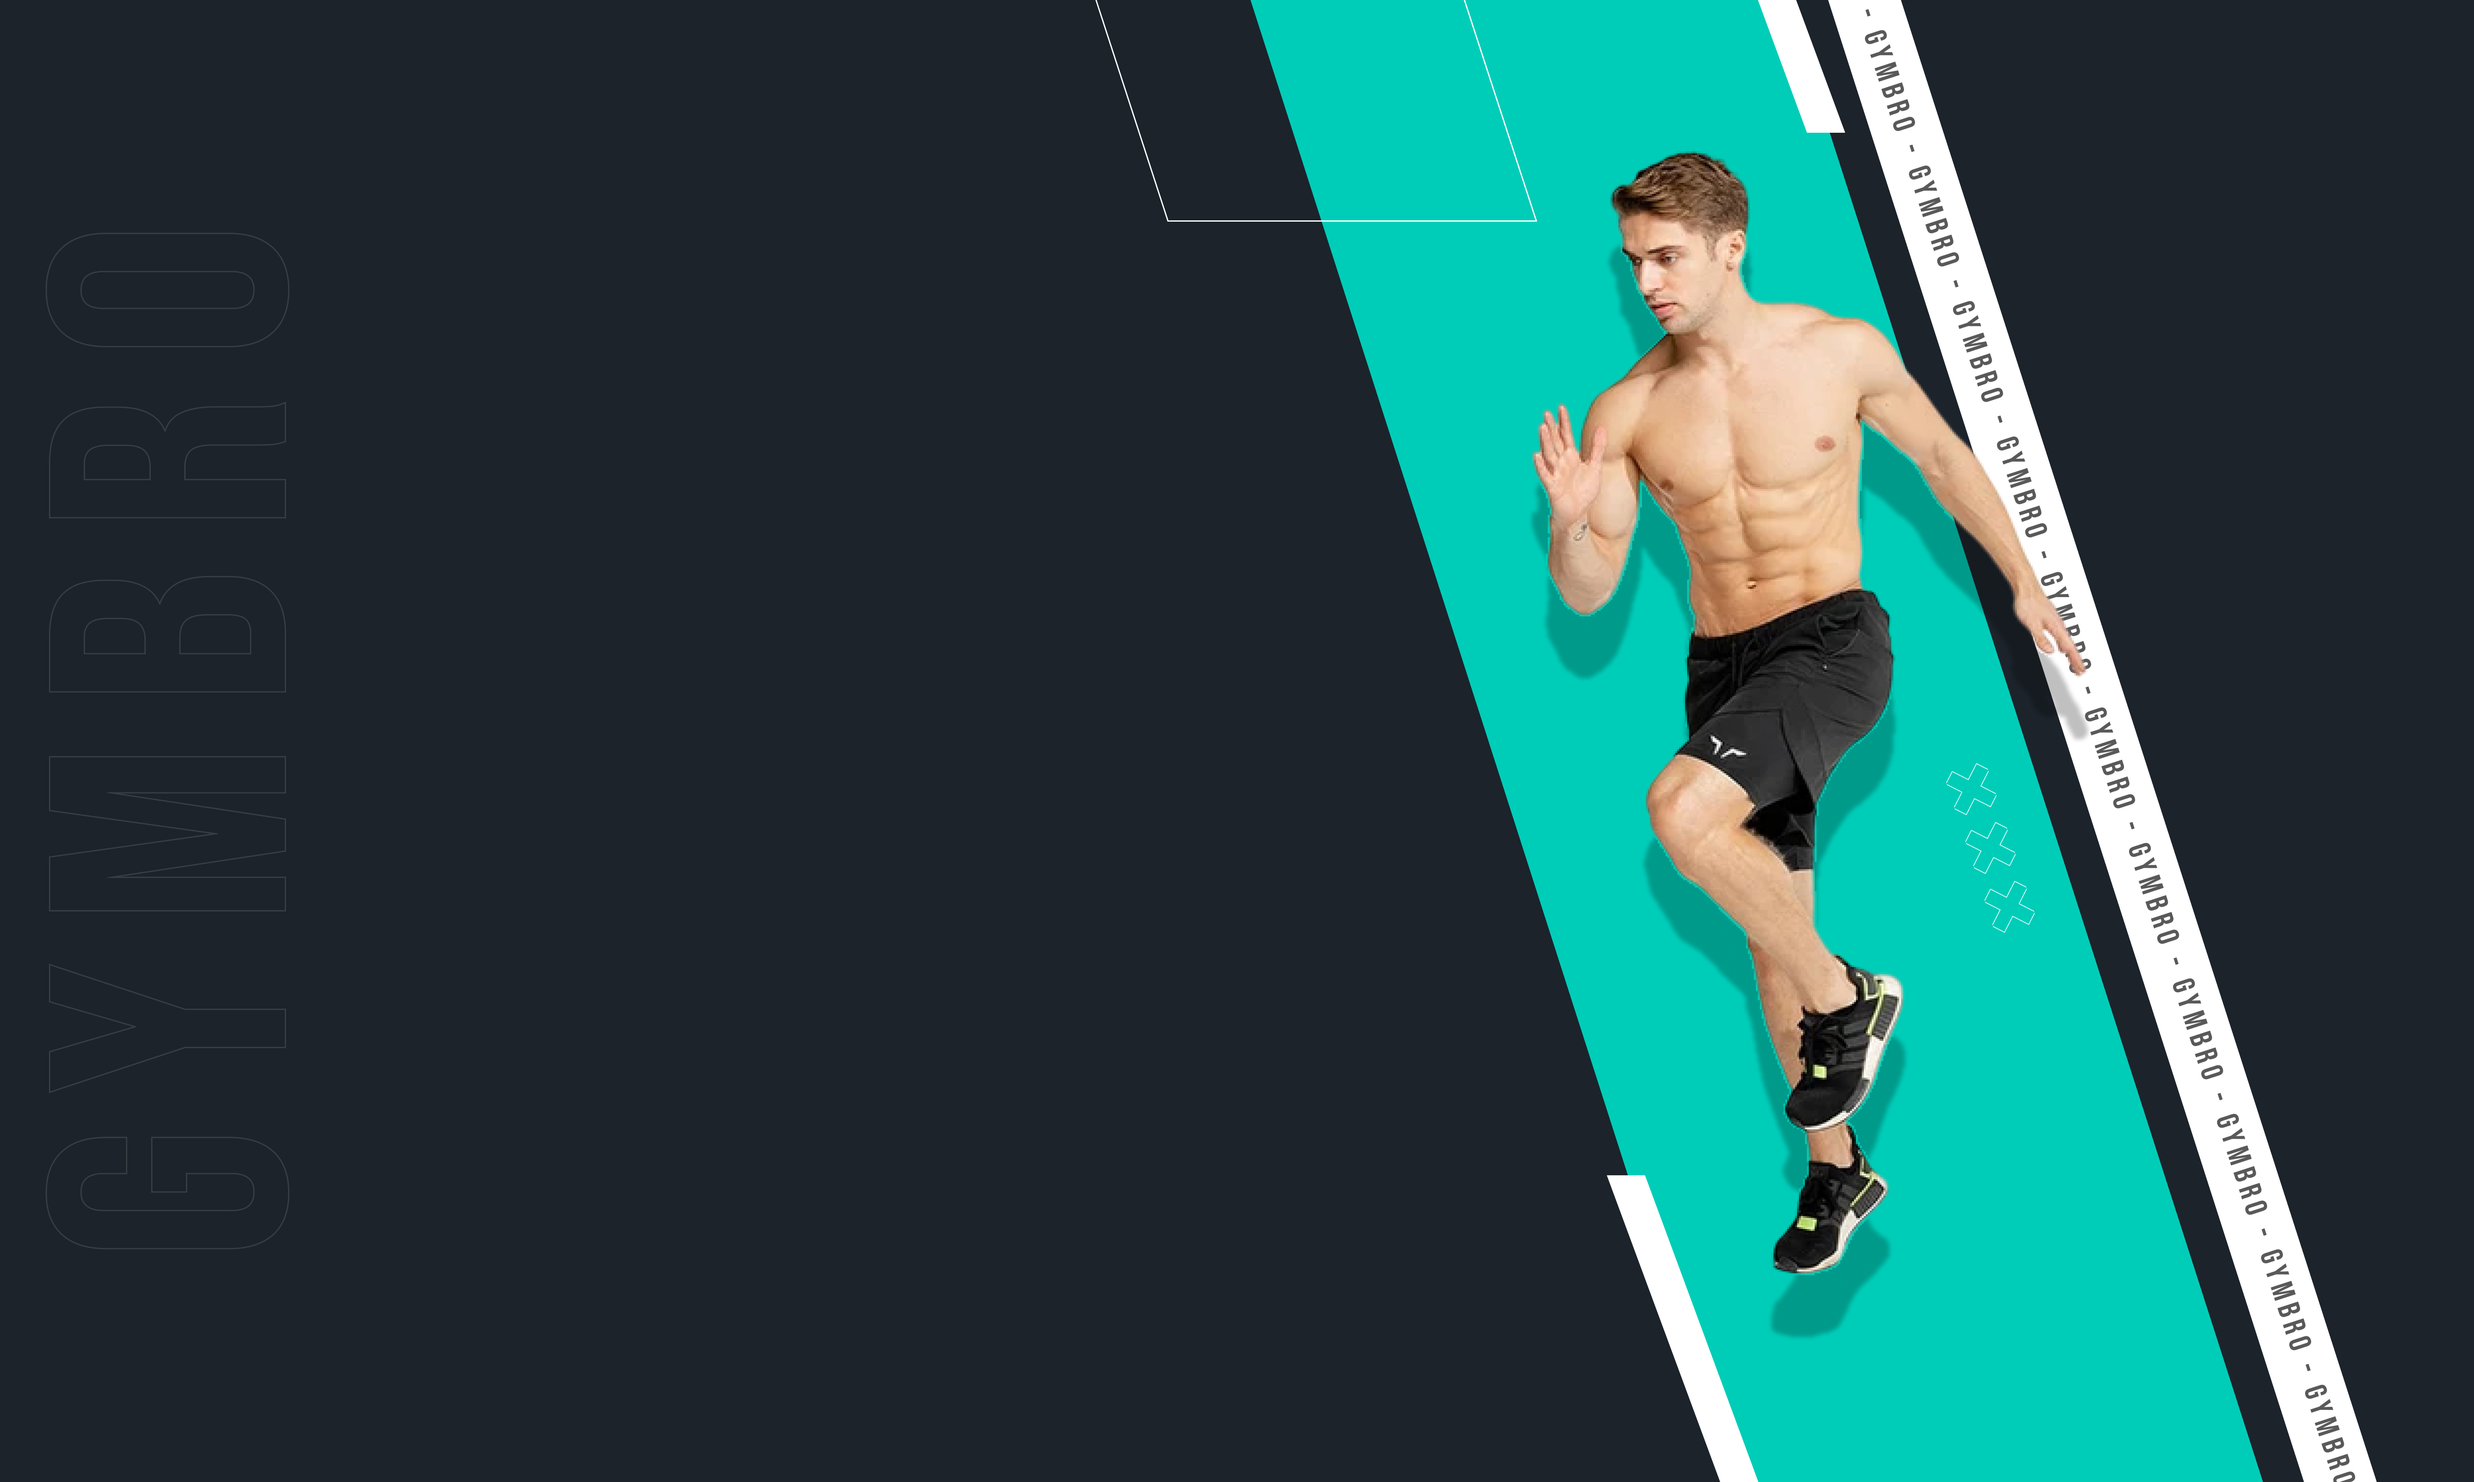
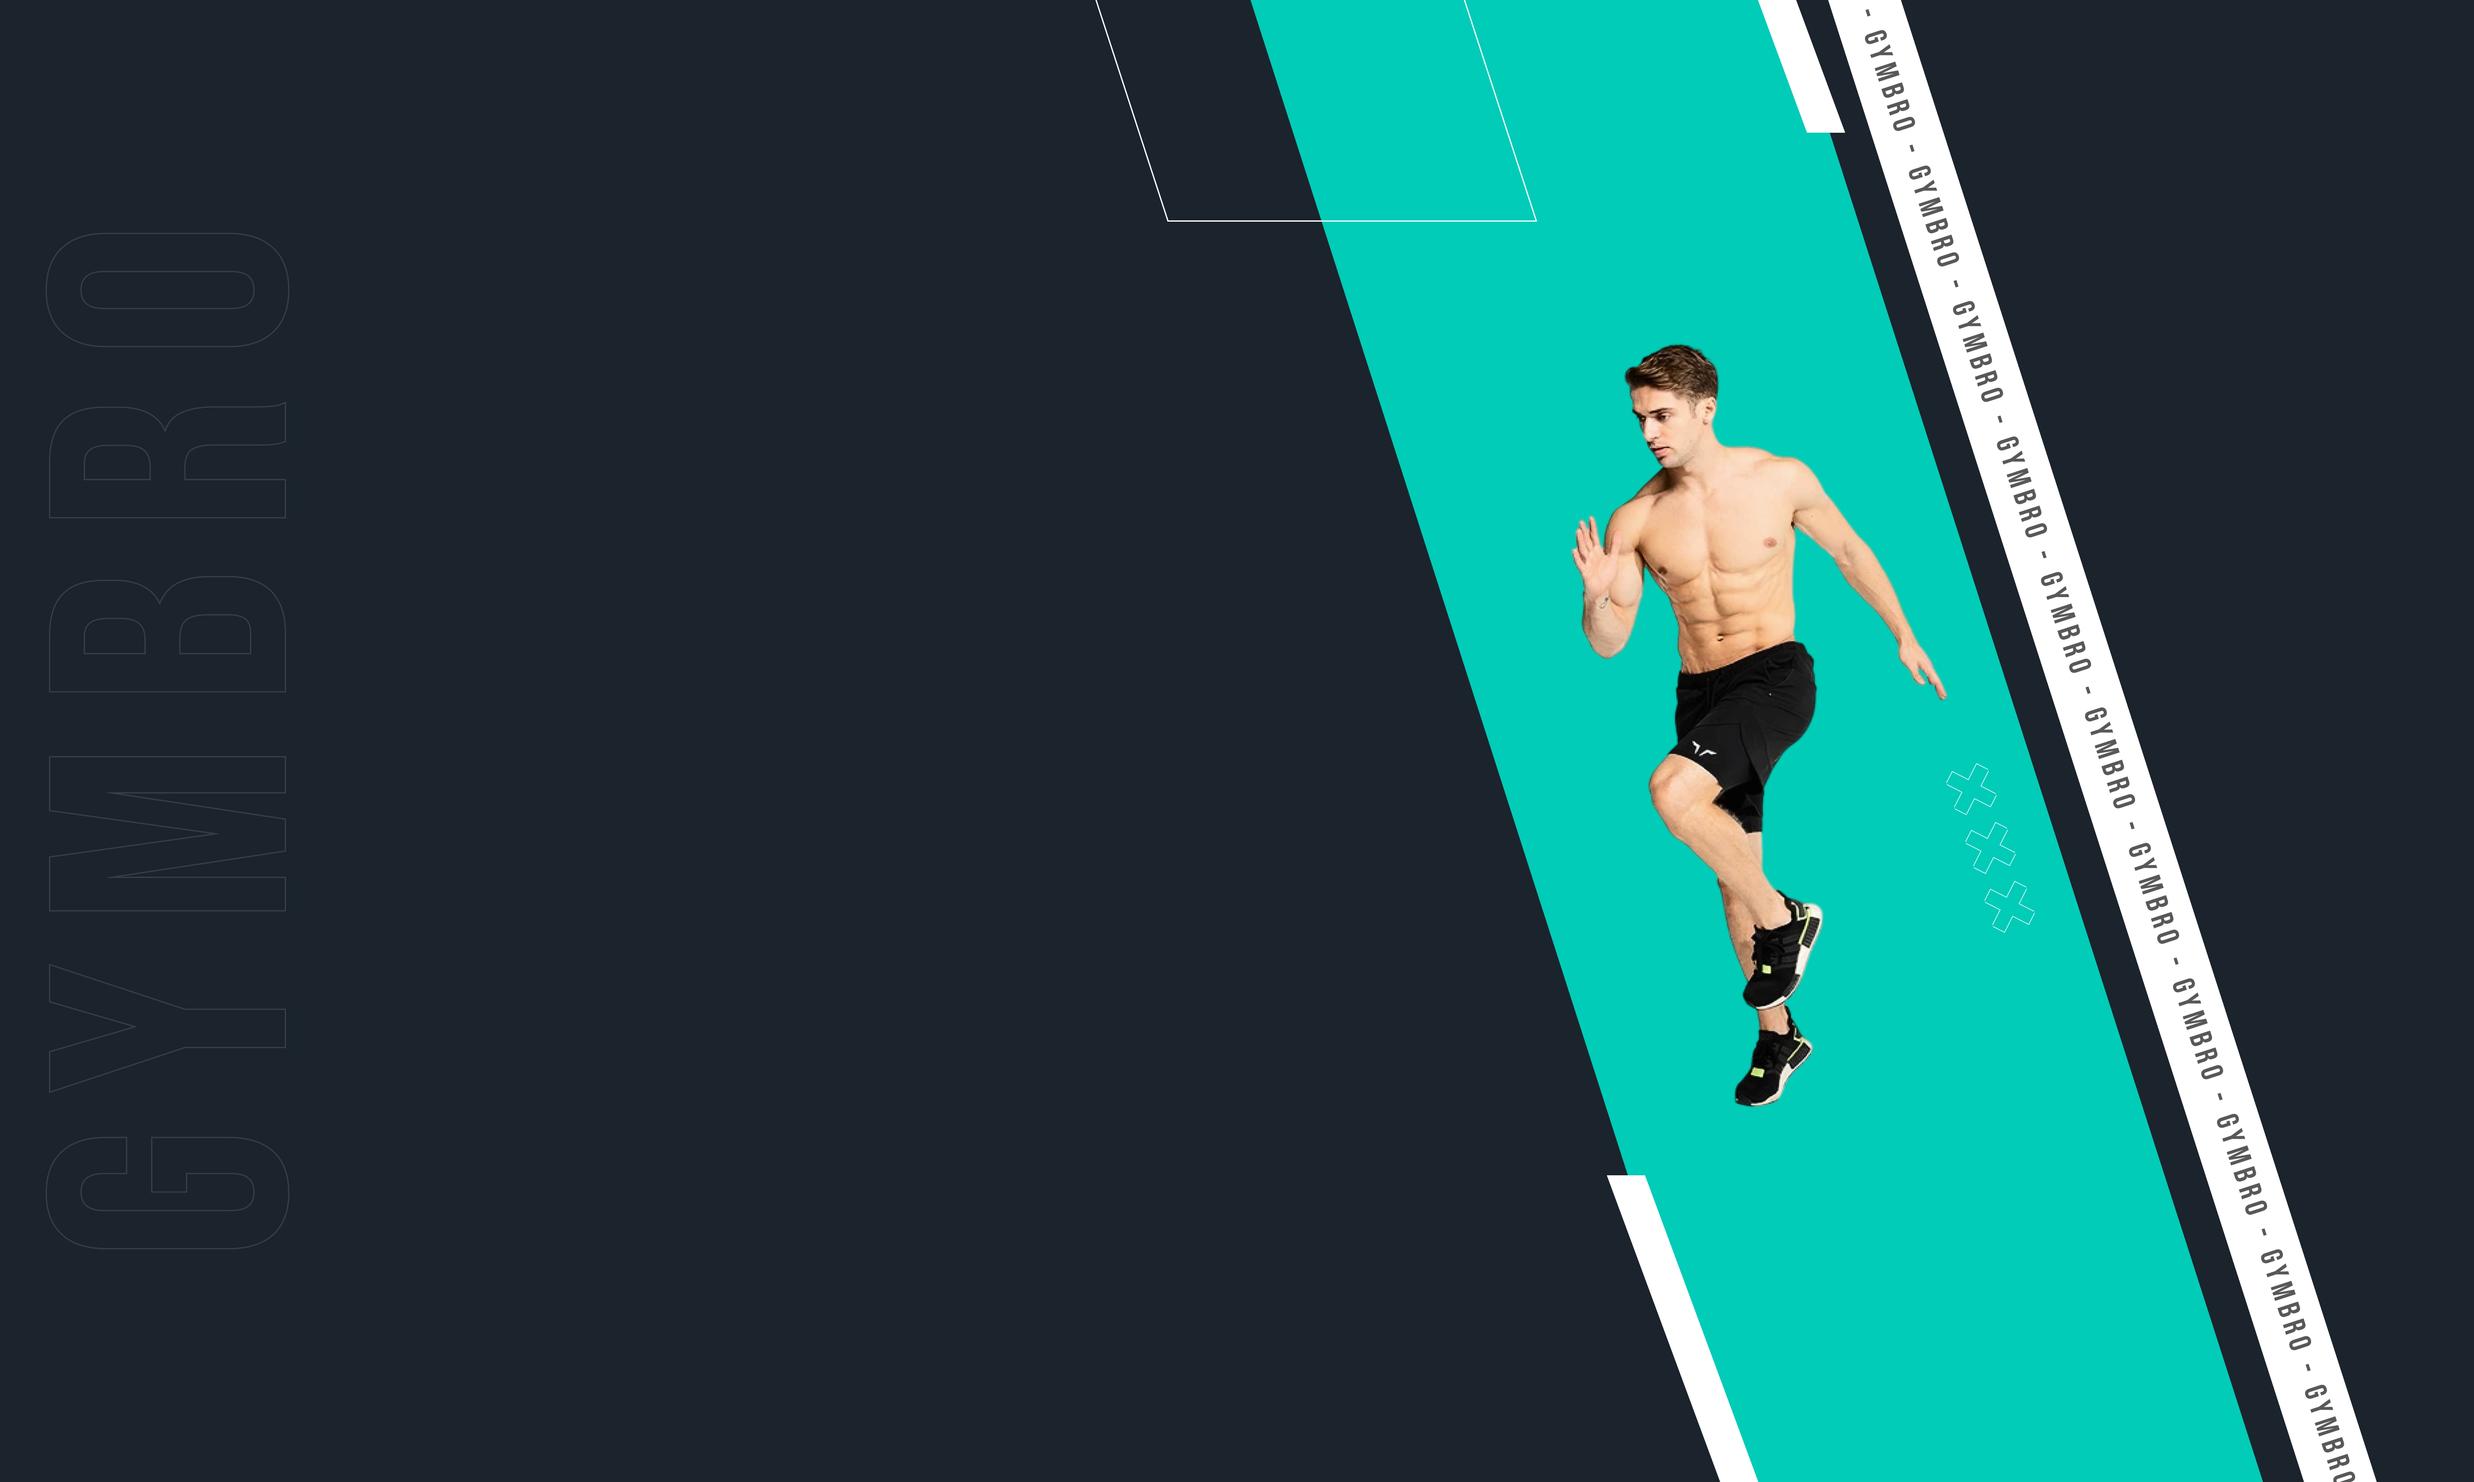
compress home background image

Changed region(s): [[0.5938, 0.093, 0.8438, 0.8994]]

diff --git a/resources/views/welcome.blade.php b/resources/views/welcome.blade.php
@@ -15,7 +15,7 @@
     <div class="bg-base-100">
         <!-- Section Hero -->
         <section class="bg-cover bg-center min-h-screen text-primary-content flex items-center"
-                 style="background-image: url({{ asset('images/home-banner.jpg') }})">
+                 style="background-image: url({{ asset('images/home-banner.webp') }})">
             <div class="container mx-auto px-4">
                 <div class="text-white w-full md:max-w-3xl p-5 text-center md:text-left">
                     <h1 class="text-4xl sm:text-5xl md:text-6xl lg:text-7xl xl:text-8xl font-bold leading-tight">
